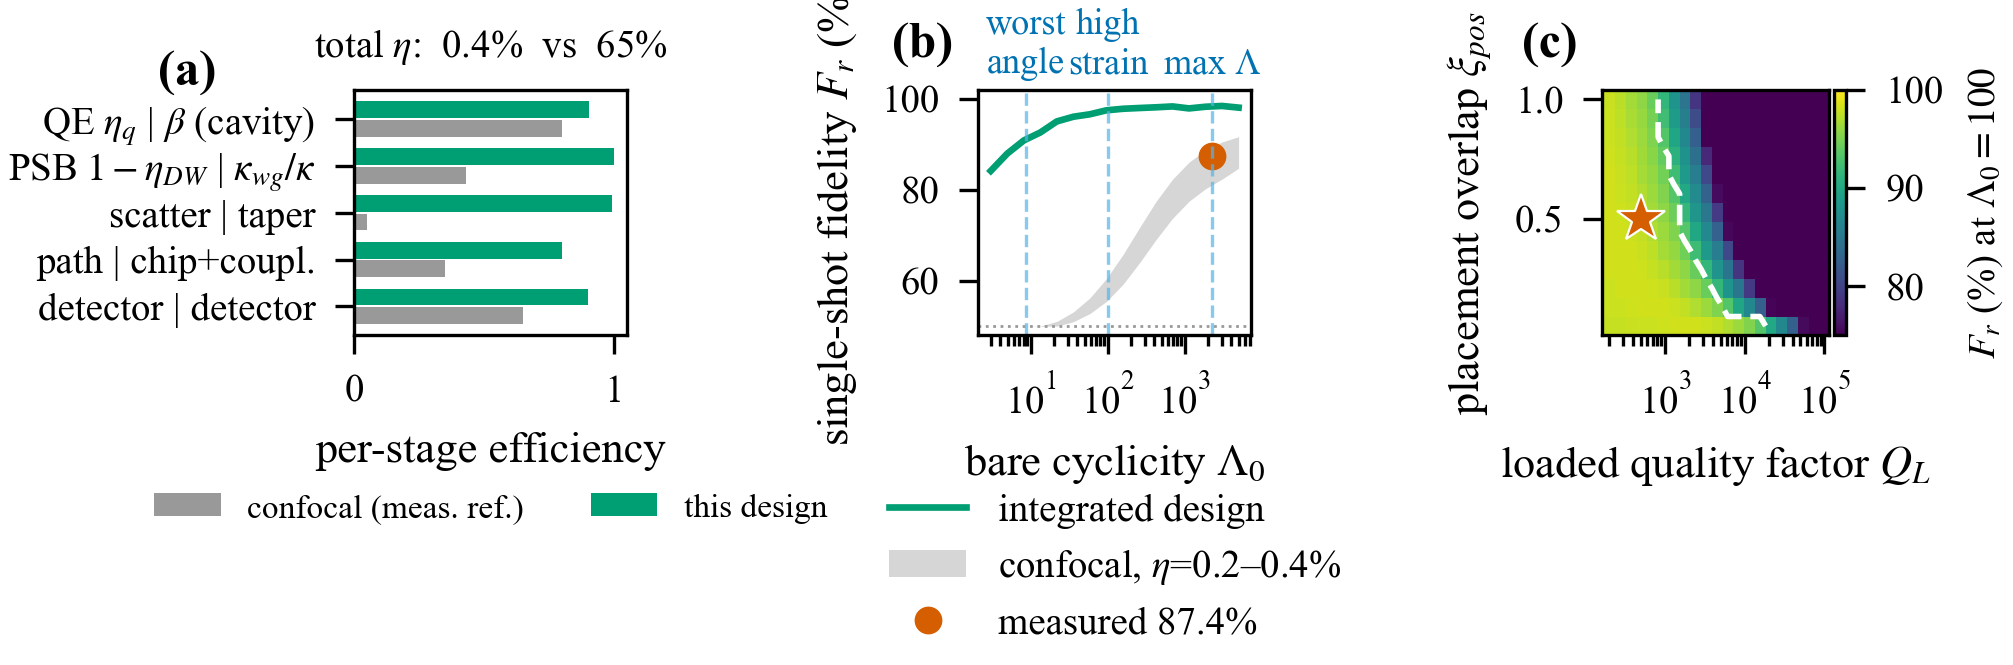
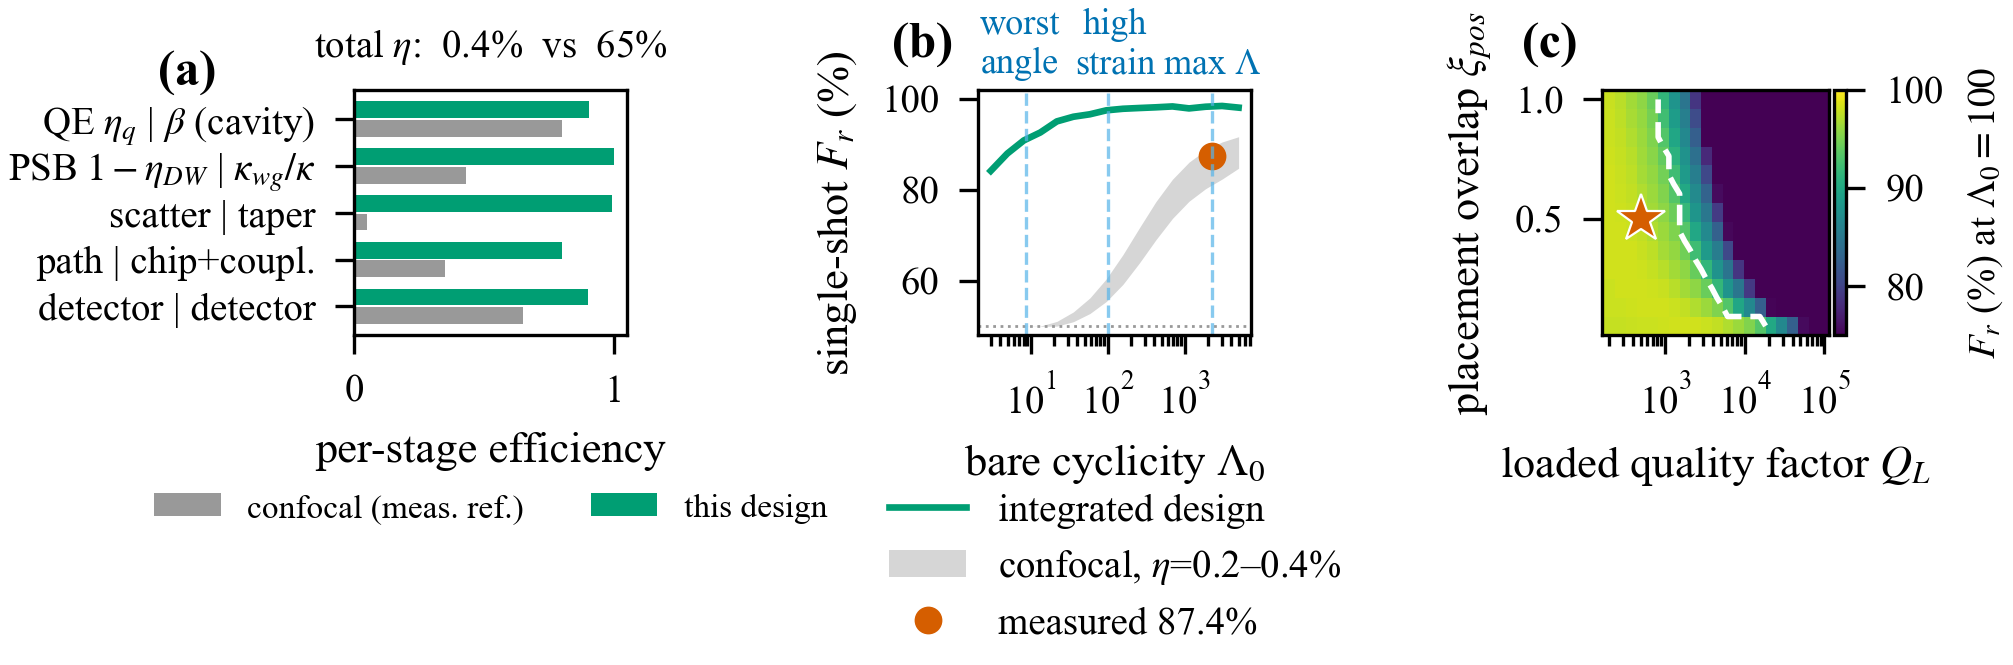
Figure micro-clash fixes verified at extreme zoom
Repositions in-panel labels and leaders so no text touches curves, markers, or panel edges: Fig. 1 top/side view label rows and substrate tags, omega_q bracket, cavity-Lorentzian label, arrow path in (c); Fig. 2 light-line and LN-mode labels; Fig. 3 white-backed band-diagram labels; Fig. 4 annotation arrow offset; Fig. 5 shortened y-label and de-cramped guide labels.

Changed region(s): [[0.4004, 0.0, 0.4312, 0.6617], [0.4928, 0.0, 0.5852, 0.1203]]

diff --git a/figures/make_figures.py b/figures/make_figures.py
@@ -73,7 +73,8 @@ def fig2():
     ax.plot(wl, te0l, color=OI["vermilion"], label="TFLN ridge TE$_0$")
     ax.axhline(1.4574, color=OI["grey"], lw=0.7, ls=":")
     ax.text(640, 1.468, "SiO$_2$ light line", color=OI["grey"], fontsize=7,
-            ha="right")
+            ha="right",
+            bbox=dict(boxstyle="square,pad=0.10", fc="white", ec="none"))
     ax.axvline(280, color=OI["blue"], lw=0.7, ls="--", alpha=0.5)
     ax.axvline(600 * 0.66, color="none")
     ax.set_xlabel("width (nm)")
@@ -90,14 +91,15 @@ def fig2():
     for i in range(bn.shape[1]):
         ax.plot(bw, bn[:, i], color=cols[i], lw=1.1)
     ends = bn[0]
+    starts = bn[-1]
     ax.text(58, ends[0] - 0.010, "TE branch", color=cols[0],
             fontsize=7, ha="right", va="top")
     ax.text(58, ends[1] - 0.012, "TM branch", color=cols[1],
             fontsize=7, ha="right", va="top")
-    ax.text(58, ends[2] - 0.012, "LN TE$_1$ (sym.-forb.)",
-            color=cols[2], fontsize=7, ha="right", va="top")
-    ax.text(58, ends[3] + 0.012, "LN TM$_0$", color=cols[3],
-            fontsize=7, ha="right", va="bottom")
+    ax.text(58, ends[2] - 0.012, "LN TE$_1$", color=cols[2],
+            fontsize=7, ha="right", va="top")
+    ax.text(bw[-1], 1.790, "LN TM$_0$", color=cols[3],
+            fontsize=7, ha="left", va="top")
     ax.set_xlabel("diamond taper width (nm)")
     ax.set_ylabel("supermode $n_\\mathrm{eff}$")
     ax.invert_xaxis()
@@ -147,11 +149,15 @@ def fig3():
     f_diel, f_air = edges["f_diel_ca"], edges["f_air_ca"]
     ax.fill_between([0, 1], f_diel, f_air, color=OI["yellow"], alpha=0.30,
                     lw=0)
-    ax.text(0.62, 0.345, "TE gap", fontsize=7, color=OI["black"])
+    ax.text(0.62, 0.345, "TE gap", fontsize=7, color=OI["black"],
+            bbox=dict(boxstyle="square,pad=0.15", fc="white", ec="none",
+                      alpha=0.85))
     f_c = a / prod["lam_nm"]
     ax.axhline(f_c, color=OI["vermilion"], lw=1.0)
     ax.text(0.05, f_c + 0.007, "cavity mode (618.7 nm)",
-            color=OI["vermilion"], fontsize=7, va="bottom")
+            color=OI["vermilion"], fontsize=7, va="bottom",
+            bbox=dict(boxstyle="square,pad=0.15", fc="white", ec="none",
+                      alpha=0.85))
     ax.set_xlabel("$k_x a/\\pi$")
     ax.set_ylabel("frequency $a/\\lambda$")
     ax.set_xlim(0, 1); ax.set_ylim(0.15, 0.42)
@@ -204,11 +210,9 @@ def fig4():
     ax.errorbar([53], [8.6], yerr=[0.4], fmt="o", color=OI["vermilion"], ms=4,
                 capsize=2)
     ax.text(30, 700, "model", color=OI["blue"], fontsize=7, ha="left")
-    ax.text(66, 3.75, "measured", color=OI["vermilion"], fontsize=6.5,
-            ha="left", va="bottom")
     ax.annotate("out-of-plane\nalignment, see (b)", xy=(147, 2244),
                 xytext=(185, 300), fontsize=6.5,
-                arrowprops=dict(arrowstyle="->", lw=0.6))
+                arrowprops=dict(arrowstyle="->", lw=0.6, shrinkB=4))
     ax.set_ylim(3.5, 8e3)
     ax.set_xlabel("field angle $\\zeta$ (deg)")
     ax.set_ylabel("cyclicity $\\Lambda$")
@@ -295,13 +299,14 @@ def fig5():
     ax.plot([2244], [87.4], "o", ms=4, color=OI["vermilion"],
             label="measured 87.4%")
     ax.axhline(50, color=OI["grey"], lw=0.5, ls=":")
-    for lx, txt in ((8.6, "worst\nangle"), (100, "high\nstrain"),
-                    (2244, "max $\\Lambda$")):
+    for lx, tx, txt in ((8.6, 7.2, "worst\nangle"),
+                        (100, 124, "high\nstrain"),
+                        (2244, 2244, "max $\\Lambda$")):
         ax.axvline(lx, color=OI["skyblue"], lw=0.6, ls="--", alpha=0.7)
-        ax.text(lx, 104, txt, fontsize=6.5, color=OI["blue"],
+        ax.text(tx, 104, txt, fontsize=6.5, color=OI["blue"],
                 va="bottom", ha="center")
     ax.set_xlabel("bare cyclicity $\\Lambda_0$")
-    ax.set_ylabel("single-shot fidelity $F_r$ (%)")
+    ax.set_ylabel("single-shot $F_r$ (%)")
     ax.set_ylim(48, 102)
     ax.legend(loc="upper center", bbox_to_anchor=(0.5, -0.50),
               fontsize=7, ncol=1, frameon=False)

diff --git a/figures/fig1_device.py b/figures/fig1_device.py
@@ -84,10 +84,10 @@ def panel_top(ax):
     # labels
     _lead(ax, (1.9, 2.55), (1.9, yc+0.14), "diamond nanobeam")
     _lead(ax, (7.1, 2.55), (6.9, yc+0.07), "adiabatic taper")
-    _lead(ax, (8.6, 0.52), (8.6, yc-0.24), "TFLN bus, 600 nm")
+    _lead(ax, (8.6, 0.68), (8.6, yc-0.24), "TFLN bus, 600 nm")
     _lead(ax, (10.35, 2.55), (10.55, yc+0.38), "detector")
     ax.text(0.22, 0.30, "SiO$_2$", fontsize=7.5, color="#666666")
-    ax.text(10.85, 0.22, "top view, not to scale", fontsize=6,
+    ax.text(10.85, 0.10, "top view, not to scale", fontsize=6,
             color="#999999", ha="right")
 
 
@@ -115,11 +115,16 @@ def panel_side(ax):
     ax.add_patch(Rectangle((10.3, 0.54), 0.55, 0.42, fc=DET, ec="k",
                            lw=0.5))
     # labels
-    _lead(ax, (1.7, 1.05), (1.7, 0.57), "diamond, 200 nm")
-    _lead(ax, (8.7, 1.05), (8.9, 0.56), "TFLN film, 190 nm")
-    ax.text(0.22, 0.10, "SiO$_2$", fontsize=7.5, color="#666666")
-    ax.text(10.15, 0.10, "side view, not to scale", fontsize=6,
-            color="#999999", ha="right")
+    ax.text(1.7, 1.05, "diamond, 200 nm", fontsize=7, ha="center",
+            va="center")
+    ax.plot([1.7, 1.7], [0.87, 0.555], color="#999999", lw=0.7)
+    ax.text(8.7, 1.05, "TFLN film, 190 nm", fontsize=7, ha="center",
+            va="center")
+    ax.plot([8.8, 8.9], [0.87, 0.545], color="#999999", lw=0.7)
+    ax.text(0.22, 0.175, "SiO$_2$", fontsize=7, color="#666666",
+            va="center")
+    ax.text(10.15, 0.175, "side view, not to scale", fontsize=6,
+            color="#999999", ha="right", va="center")
 
 
 def panel_zoom(ax):
@@ -196,9 +201,10 @@ def panel_b(ax):
                    (y2, "$|\\!\\uparrow\\rangle$")):
         ax.text(x1 + 0.02, y, lab, fontsize=8, va="center")
     # qubit splitting bracket next to the |up> line start
-    ax.annotate("", xy=(0.315, y2), xytext=(0.315, y1),
-                arrowprops=dict(arrowstyle="<->", lw=0.7))
-    ax.text(0.275, (y1+y2)/2, "$\\omega_q$", fontsize=7, ha="right",
+    ax.annotate("", xy=(0.44, y2), xytext=(0.44, y1),
+                arrowprops=dict(arrowstyle="<->", lw=0.7,
+                                mutation_scale=6))
+    ax.text(0.46, (y1+y2)/2, "$\\omega_q$", fontsize=7, ha="left",
             va="center")
     # spin-conserving C1 (cavity-enhanced), clear of the |up> line
     ax.add_patch(FancyArrowPatch((0.195, y1), (0.195, yC),
@@ -207,12 +213,12 @@ def panel_b(ax):
     ax.text(0.175, 0.56, "C$_1$", fontsize=7.5, color=OI["vermilion"],
             ha="right")
     # cavity line profile beside C1
-    yy = np.linspace(0.50, 0.84, 120)
+    yy = np.linspace(0.53, 0.84, 120)
     lor = 0.075 / (1 + ((yy - 0.67) / 0.085) ** 2)
     ax.plot(0.395 + lor, yy, color=OI["green"], lw=1.2)
-    ax.text(0.36, 0.43, "cavity", fontsize=6.5, ha="center",
+    ax.text(0.36, 0.41, "cavity", fontsize=6.5, ha="center",
             color=OI["green"])
-    ax.text(0.36, 0.34, "$F_C = 19$", fontsize=6.5, ha="center",
+    ax.text(0.36, 0.32, "$F_C = 19$", fontsize=6.5, ha="center",
             color=OI["green"])
     # weak spin-flipping C2
     ax.add_patch(FancyArrowPatch((0.54, y2), (0.54, yC), arrowstyle="-|>",
@@ -234,7 +240,7 @@ def panel_c(ax):
                     100*np.array(frl["confocal_004"]), color=OI["grey"],
                     alpha=0.45, lw=0)
     ax.plot([2244], [87.4], "o", ms=4, color=OI["vermilion"])
-    ax.text(140, 91.5, "this design", color=OI["green"], fontsize=6.5)
+    ax.text(60, 90.0, "this design", color=OI["green"], fontsize=6.5)
     ax.text(700, 63.5, "confocal", color="#777777", fontsize=6.5,
             ha="center")
     ax.text(2244, 80.5, "measured", color=OI["vermilion"], fontsize=6.5,
